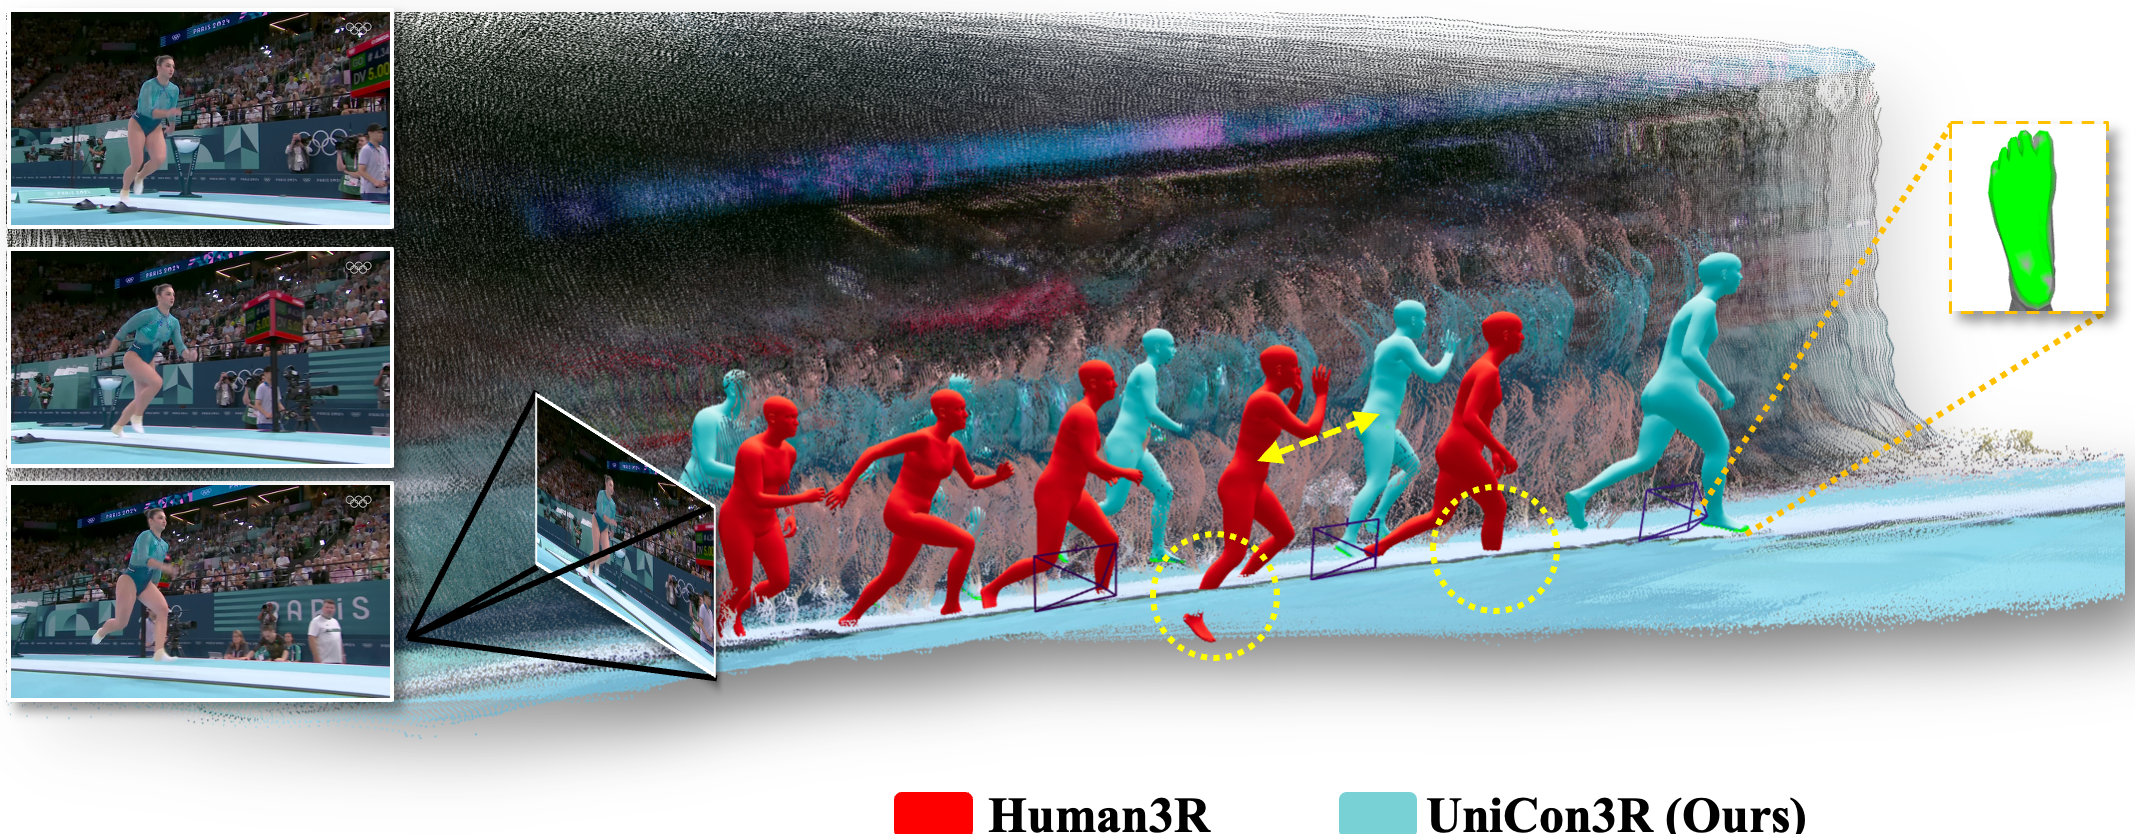
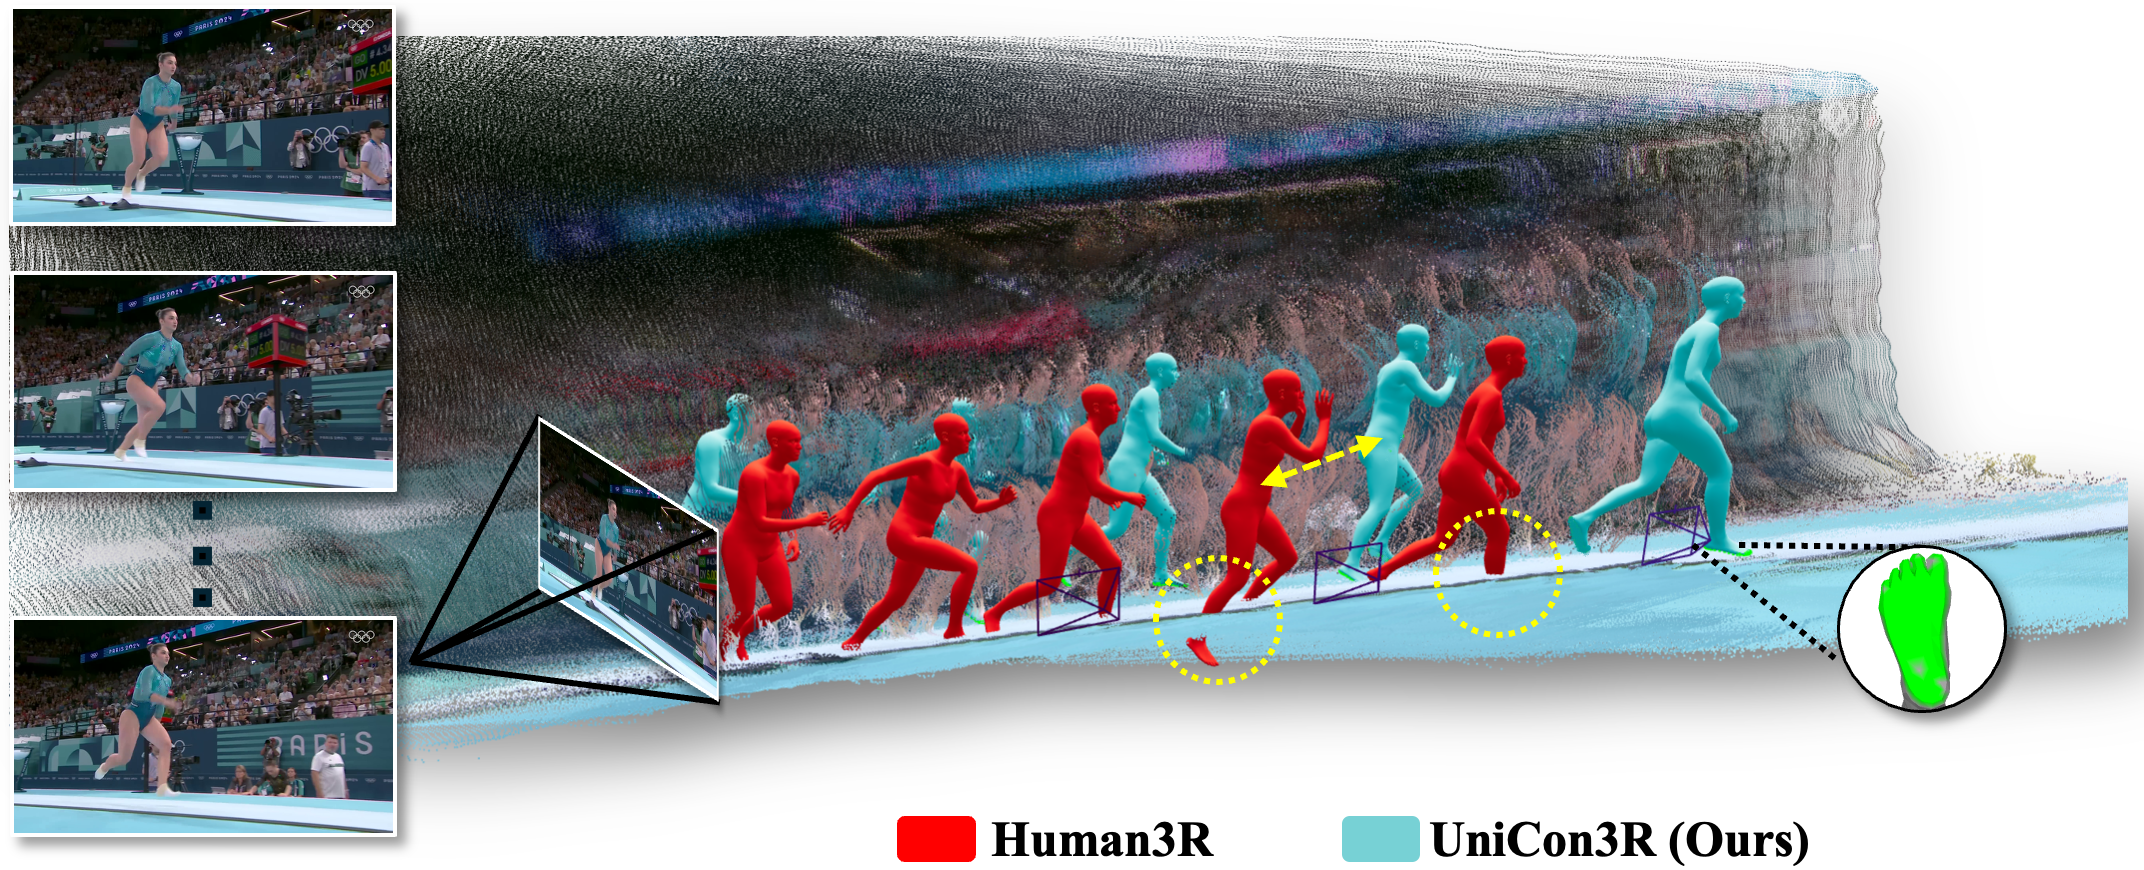
Refresh figures and remove result tables

diff --git a/docs/index.html b/docs/index.html
@@ -259,279 +259,6 @@
     </div>
   </section>
 
-  <section class="section section-tight">
-    <div class="container is-max-widescreen">
-      <div class="columns is-centered">
-        <div class="column is-four-fifths has-text-centered">
-          <h2 class="title is-3">Qualitative Local Mesh Results</h2>
-          <p class="section-intro">
-            UniCon3R produces local body pose and scene alignment closer to ground truth, especially in examples where
-            body-scene support is visually clear.
-          </p>
-          <div class="media-frame">
-            <img src="static/images/local_mesh_qualitative.png" alt="Qualitative local mesh comparison" loading="lazy">
-          </div>
-        </div>
-      </div>
-    </div>
-  </section>
-
-  <section class="section alt-section" id="quantitative-results">
-    <div class="container is-max-widescreen">
-      <div class="columns is-centered">
-        <div class="column is-full">
-          <h2 class="title is-3 has-text-centered">Quantitative Results</h2>
-          <p class="table-note has-text-centered">
-            <code>Human3R*</code> denotes the released checkpoint evaluated in our pipeline, and
-            <code>Human3R†</code> is the controlled fine-tuning baseline.
-          </p>
-
-          <div class="table-block">
-            <h3 class="title is-4">Global Human Motion Estimation</h3>
-            <div class="table-scroll">
-              <table class="results-table">
-                <thead>
-                  <tr>
-                    <th rowspan="2">Method</th>
-                    <th rowspan="2">Scene</th>
-                    <th rowspan="2">Contact</th>
-                    <th colspan="4">RICH</th>
-                    <th colspan="4">EMDB-2</th>
-                  </tr>
-                  <tr>
-                    <th>WA-MPJPE</th>
-                    <th>W-MPJPE</th>
-                    <th>RTE (%)</th>
-                    <th>PA-MPJPE</th>
-                    <th>WA-MPJPE</th>
-                    <th>W-MPJPE</th>
-                    <th>RTE (%)</th>
-                    <th>PA-MPJPE</th>
-                  </tr>
-                </thead>
-                <tbody>
-                  <tr>
-                    <td>JOSH3R</td><td>&check;</td><td>&cross;</td>
-                    <td>190.4</td><td>334.9</td><td>6.3</td><td>&mdash;</td>
-                    <td>220.0</td><td>661.7</td><td>13.1</td><td>&mdash;</td>
-                  </tr>
-                  <tr>
-                    <td>UniSH</td><td>&check;</td><td>&check;</td>
-                    <td>118.1</td><td>183.2</td><td>4.8</td><td>&mdash;</td>
-                    <td>118.5</td><td class="best">270.1</td><td>5.8</td><td>&mdash;</td>
-                  </tr>
-                  <tr>
-                    <td>Human3R*</td><td>&check;</td><td>&cross;</td>
-                    <td>109.9</td><td>184.0</td><td>3.3</td><td>48.6</td>
-                    <td class="second-best">118.2</td><td>286.1</td><td class="second-best">2.4</td><td class="second-best">38.7</td>
-                  </tr>
-                  <tr>
-                    <td>Human3R&#8224;</td><td>&check;</td><td>&cross;</td>
-                    <td class="second-best">97.5</td><td class="second-best">153.2</td><td class="second-best">2.3</td><td class="second-best">41.4</td>
-                    <td>156.7</td><td>378.6</td><td>3.5</td><td>40.6</td>
-                  </tr>
-                  <tr>
-                    <td>Parallel Readout (Ours)</td><td>&check;</td><td>&check;</td>
-                    <td>97.9</td><td>153.5</td><td class="second-best">2.3</td><td>41.5</td>
-                    <td>160.7</td><td>388.3</td><td>3.6</td><td>50.9</td>
-                  </tr>
-                  <tr class="ours">
-                    <td>UniCon3R (Ours)</td><td>&check;</td><td>&check;</td>
-                    <td class="best">81.5</td><td class="best">129.8</td><td class="best">1.7</td><td class="best">37.6</td>
-                    <td class="best">113.7</td><td class="second-best">285.6</td><td class="best">2.3</td><td class="best">38.2</td>
-                  </tr>
-                </tbody>
-              </table>
-            </div>
-          </div>
-
-          <div class="table-block">
-            <h3 class="title is-4">Local Human Mesh Reconstruction</h3>
-            <p class="table-note">
-              PVE and MPJPE are in mm; Pen. Max is in cm. Missing entries indicate that the metric is not reported for
-              the method.
-            </p>
-            <div class="table-scroll">
-              <table class="results-table">
-                <thead>
-                  <tr>
-                    <th rowspan="2">Method</th>
-                    <th colspan="3">SLOPER4D</th>
-                    <th colspan="2">3DPW</th>
-                  </tr>
-                  <tr>
-                    <th>PVE (mm)</th>
-                    <th>MPJPE (mm)</th>
-                    <th>Pen. Max (cm)</th>
-                    <th>PVE (mm)</th>
-                    <th>MPJPE (mm)</th>
-                  </tr>
-                </thead>
-                <tbody>
-                  <tr>
-                    <td>Human3R*</td>
-                    <td>155.1</td><td>179.1</td><td class="second-best">219.7</td>
-                    <td class="best">86.6</td><td class="second-best">72.8</td>
-                  </tr>
-                  <tr>
-                    <td>Human3R&#8224;</td>
-                    <td class="second-best">153.4</td><td class="second-best">176.7</td><td>300.4</td>
-                    <td>91.3</td><td>76.9</td>
-                  </tr>
-                  <tr>
-                    <td>UniSH</td>
-                    <td>&mdash;</td><td>&mdash;</td><td>725.4</td>
-                    <td>&mdash;</td><td>&mdash;</td>
-                  </tr>
-                  <tr class="ours">
-                    <td>UniCon3R (Ours)</td>
-                    <td class="best">152.9</td><td class="best">176.1</td><td class="best">120.3</td>
-                    <td class="second-best">86.8</td><td class="best">72.5</td>
-                  </tr>
-                </tbody>
-              </table>
-            </div>
-          </div>
-
-          <div class="columns">
-            <div class="column">
-              <div class="table-block">
-                <h3 class="title is-4">Contact Estimation on RICH</h3>
-                <div class="table-scroll">
-                  <table class="results-table compact-table">
-                    <thead>
-                      <tr>
-                        <th>Method</th>
-                        <th>Precision</th>
-                        <th>Recall</th>
-                        <th>F1</th>
-                        <th>Geo.</th>
-                      </tr>
-                    </thead>
-                    <tbody>
-                      <tr><td>DECO</td><td class="best">0.71</td><td class="second-best">0.76</td><td class="second-best">0.70</td><td>17.92</td></tr>
-                      <tr><td>InteractVLM</td><td>0.63</td><td>0.63</td><td>0.60</td><td class="second-best">15.70</td></tr>
-                      <tr><td>Human3R*</td><td>0.07</td><td>0.13</td><td>0.08</td><td>76.10</td></tr>
-                      <tr><td>Parallel Readout (Ours)</td><td>0.59</td><td>0.72</td><td>0.62</td><td>20.68</td></tr>
-                      <tr class="ours"><td>UniCon3R (Ours)</td><td class="second-best">0.64</td><td class="best">0.80</td><td class="best">0.71</td><td class="best">14.98</td></tr>
-                    </tbody>
-                  </table>
-                </div>
-              </div>
-            </div>
-            <div class="column">
-              <div class="table-block">
-                <h3 class="title is-4">Physical Grounding on RICH</h3>
-                <div class="table-scroll">
-                  <table class="results-table compact-table">
-                    <thead>
-                      <tr>
-                        <th>Method</th>
-                        <th>Coll.</th>
-                        <th>Pen.</th>
-                        <th>Float</th>
-                        <th>P.Max</th>
-                      </tr>
-                    </thead>
-                    <tbody>
-                      <tr><td>UniSH</td><td class="second-best">7.39</td><td class="second-best">6.01</td><td>37.94</td><td class="second-best">67.87</td></tr>
-                      <tr><td>Human3R*</td><td>7.40</td><td>6.40</td><td class="second-best">33.56</td><td>216.97</td></tr>
-                      <tr><td>Human3R&#8224;</td><td>7.72</td><td>7.69</td><td>37.52</td><td>259.54</td></tr>
-                      <tr><td>Parallel Readout (Ours)</td><td>7.71</td><td>7.56</td><td>37.05</td><td>254.91</td></tr>
-                      <tr class="ours"><td>UniCon3R (Ours)</td><td class="best">5.54</td><td class="best">1.59</td><td class="best">5.50</td><td class="best">17.54</td></tr>
-                    </tbody>
-                  </table>
-                </div>
-              </div>
-            </div>
-          </div>
-
-          <div class="table-block">
-            <h3 class="title is-4">Ablation Study on RICH</h3>
-            <div class="table-scroll">
-              <table class="results-table">
-                <thead>
-                  <tr>
-                    <th rowspan="2">Model Variant</th>
-                    <th colspan="4">Architectural Components</th>
-                    <th colspan="2">Global Motion</th>
-                    <th colspan="2">Physical Plausibility</th>
-                  </tr>
-                  <tr>
-                    <th>Context</th>
-                    <th>Geometry</th>
-                    <th>Momentum</th>
-                    <th>Latent Ref.</th>
-                    <th>WA-MPJPE</th>
-                    <th>W-MPJPE</th>
-                    <th>Foot Sliding</th>
-                    <th>Jitter</th>
-                  </tr>
-                </thead>
-                <tbody>
-                  <tr><td>Human3R*</td><td>&mdash;</td><td>&mdash;</td><td>&mdash;</td><td>&mdash;</td><td>97.5</td><td>153.2</td><td>37.7</td><td>279.5</td></tr>
-                  <tr><td>Parallel Readout</td><td>&cross;</td><td>&cross;</td><td>&cross;</td><td>&cross;</td><td>90.2</td><td>142.7</td><td>35.3</td><td>262.5</td></tr>
-                  <tr><td>+ Scene Context</td><td>&check;</td><td>&cross;</td><td>&cross;</td><td>&cross;</td><td>89.4</td><td>140.6</td><td>35.0</td><td>260.1</td></tr>
-                  <tr><td>+ Explicit Geometry</td><td>&check;</td><td>&check;</td><td>&cross;</td><td>&cross;</td><td>85.9</td><td class="second-best">134.5</td><td>33.1</td><td>244.6</td></tr>
-                  <tr><td>+ Temporal Momentum</td><td>&check;</td><td>&check;</td><td>&check;</td><td>&cross;</td><td class="second-best">85.3</td><td>135.1</td><td class="second-best">32.0</td><td class="second-best">231.8</td></tr>
-                  <tr class="ours"><td>+ Latent Refinement (UniCon3R)</td><td>&check;</td><td>&check;</td><td>&check;</td><td>&check;</td><td class="best">81.5</td><td class="best">129.8</td><td class="best">31.5</td><td class="best">221.4</td></tr>
-                </tbody>
-              </table>
-            </div>
-          </div>
-        </div>
-      </div>
-    </div>
-  </section>
-
-  <section class="section section-tight" id="runtime">
-    <div class="container is-max-widescreen">
-      <div class="columns is-centered">
-        <div class="column is-two-thirds">
-          <h2 class="title is-3 has-text-centered">Runtime</h2>
-          <div class="columns">
-            <div class="column">
-              <div class="table-block">
-                <h3 class="title is-5">End-to-End Reconstruction FPS</h3>
-                <table class="results-table compact-table">
-                  <thead>
-                    <tr>
-                      <th>Method</th>
-                      <th>FPS</th>
-                    </tr>
-                  </thead>
-                  <tbody>
-                    <tr><td>UniSH</td><td>2.6</td></tr>
-                    <tr><td>Human3R*</td><td class="best">2.4</td></tr>
-                    <tr class="ours"><td>UniCon3R (Ours)</td><td class="best">2.4</td></tr>
-                  </tbody>
-                </table>
-              </div>
-            </div>
-            <div class="column">
-              <div class="table-block">
-                <h3 class="title is-5">Contact Prediction Time / Frame</h3>
-                <table class="results-table compact-table">
-                  <thead>
-                    <tr>
-                      <th>Method</th>
-                      <th>Seconds</th>
-                    </tr>
-                  </thead>
-                  <tbody>
-                    <tr><td>DECO</td><td>1.1</td></tr>
-                    <tr><td>InteractVLM</td><td>3.5</td></tr>
-                    <tr class="ours"><td>UniCon3R (Ours)</td><td class="best">0.5</td></tr>
-                  </tbody>
-                </table>
-              </div>
-            </div>
-          </div>
-        </div>
-      </div>
-    </div>
-  </section>
-
   <script>
     (() => {
       const carousel = document.querySelector("[data-sequence-carousel]");
